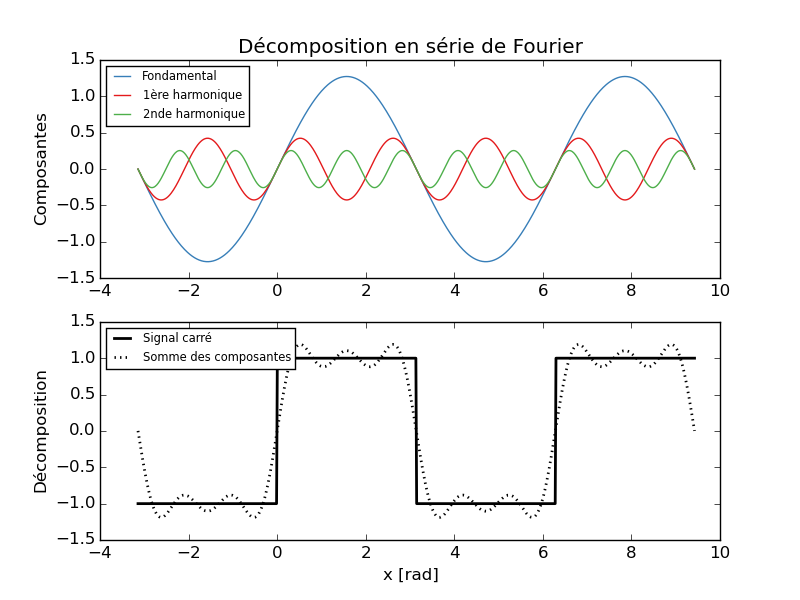
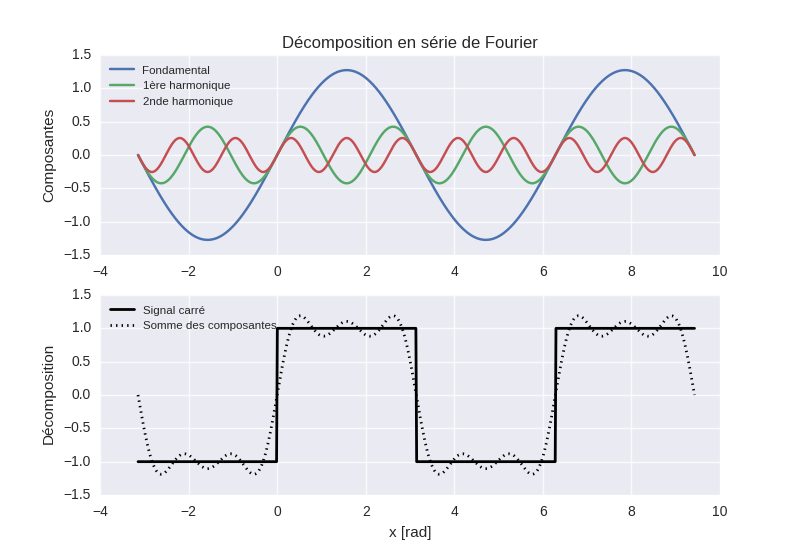
Utilisation de la charte graphique "seaborn".

diff --git a/Cours/figure.py b/Cours/figure.py
@@ -1,6 +1,6 @@
 #!/usr/bin/env python
 # -*- coding: utf-8 -*-
-# Time-stamp: <2014-12-15 12:44:04 ycopin>
+# Time-stamp: <2014-12-15 16:06:44 ycopin>
 
 """
 Exemple un peu plus compexe de figure, incluant 2 axes, légendes, axes, etc.
@@ -8,6 +8,10 @@ Exemple un peu plus compexe de figure, incluant 2 axes, légendes, axes, etc.
 
 import numpy as N
 import matplotlib.pyplot as P
+try:
+    import seaborn              # Amélioration de la charte graphique
+except ImportError:
+    print u"Seaborn n'est pas accessible, charte graphique par défaut."
 
 x = N.linspace(-N.pi, 3*N.pi, 2*360)
 
